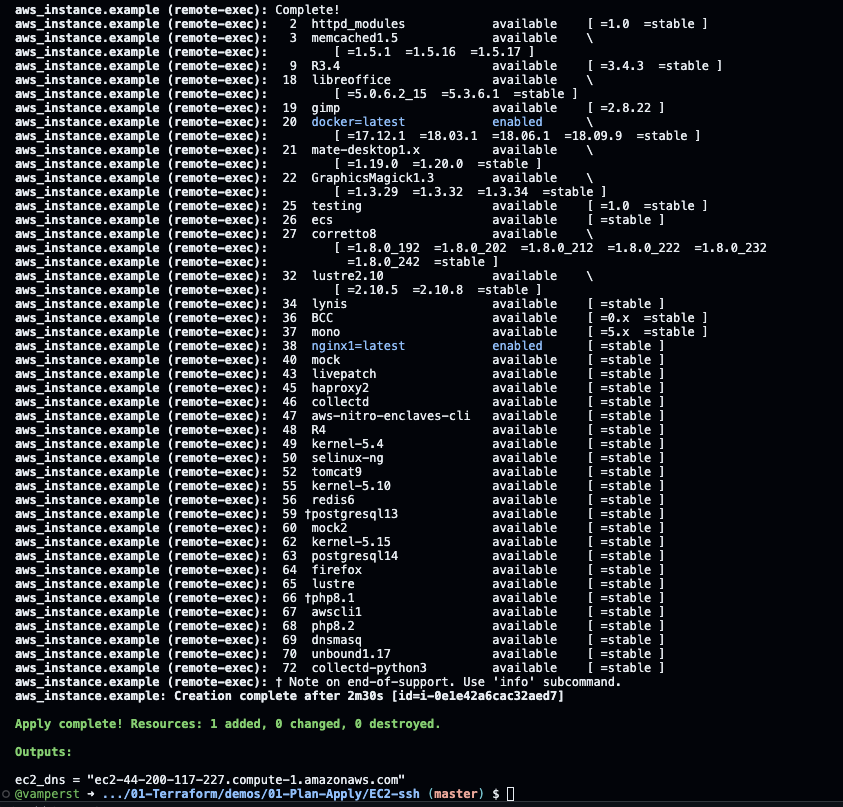
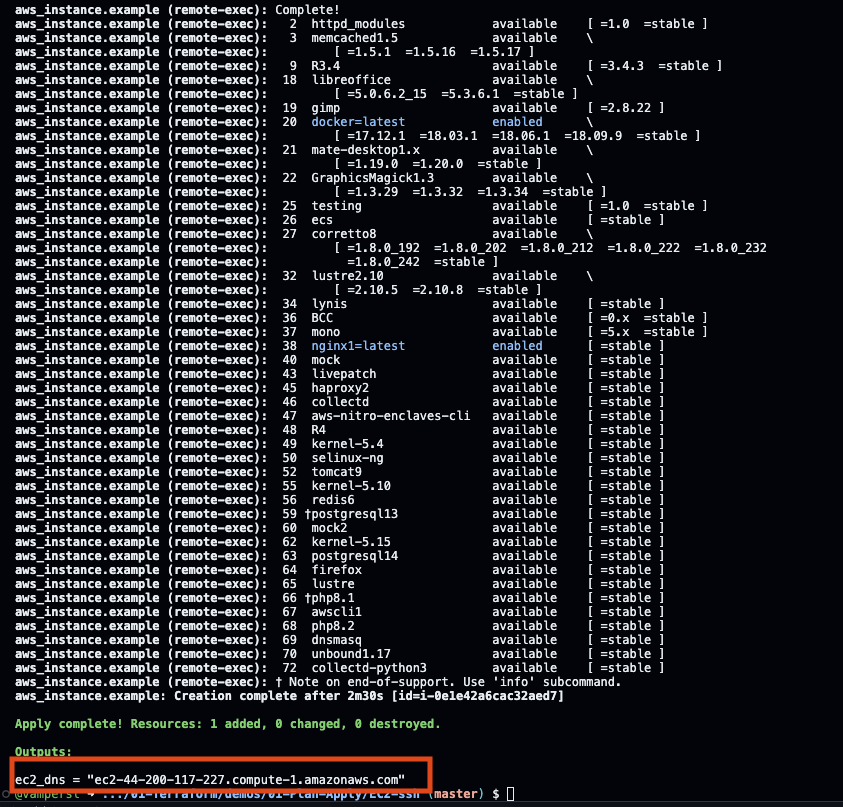
docs(01.1): atualiza prints do Plan-Apply
- README com prints novos (Destroy-1, plan-2) e atualizados (apply-3, plan, terraforminit)
- remove imagem orfa apply-4.png (sem referencia no README)

Changed region(s): [[0.0, 0.9294, 0.5243, 0.9913]]

diff --git a/01-Terraform/demos/01-Plan-Apply/README.md b/01-Terraform/demos/01-Plan-Apply/README.md
@@ -573,13 +573,15 @@ resource "aws_instance" "example" {
 }
 ```
 
-Rode o `plan` e **leia o símbolo**:
+Rode o `plan` e **leia a saida**:
 
 ```bash
 terraform plan
 ```
 
 O Terraform mostra `~ update in-place` — uma tag é um atributo mutável, então ele **altera a máquina existente**, sem recriar.
+
+![](images/plan-2.png)
 
 <details>
 <summary><b>💡 Clique para entender: os símbolos do plano</b></summary>
@@ -643,6 +645,8 @@ Desta vez aparece `# forces replacement` na linha do `availability_zone`, e o re
 
 > [!IMPORTANT]
 > É exatamente aqui que mora o risco: um replace (`1 to destroy`) numa máquina de produção significa **downtime**. O `plan` te avisa **antes**. Em demos seguintes (e na vida real) usamos recursos como `create_before_destroy` para suavizar isso.
+
+![](images/Destroy-1.png)
 
 <details>
 <summary><b>💡 Clique para entender: por que a zona força replace e o tipo não</b></summary>